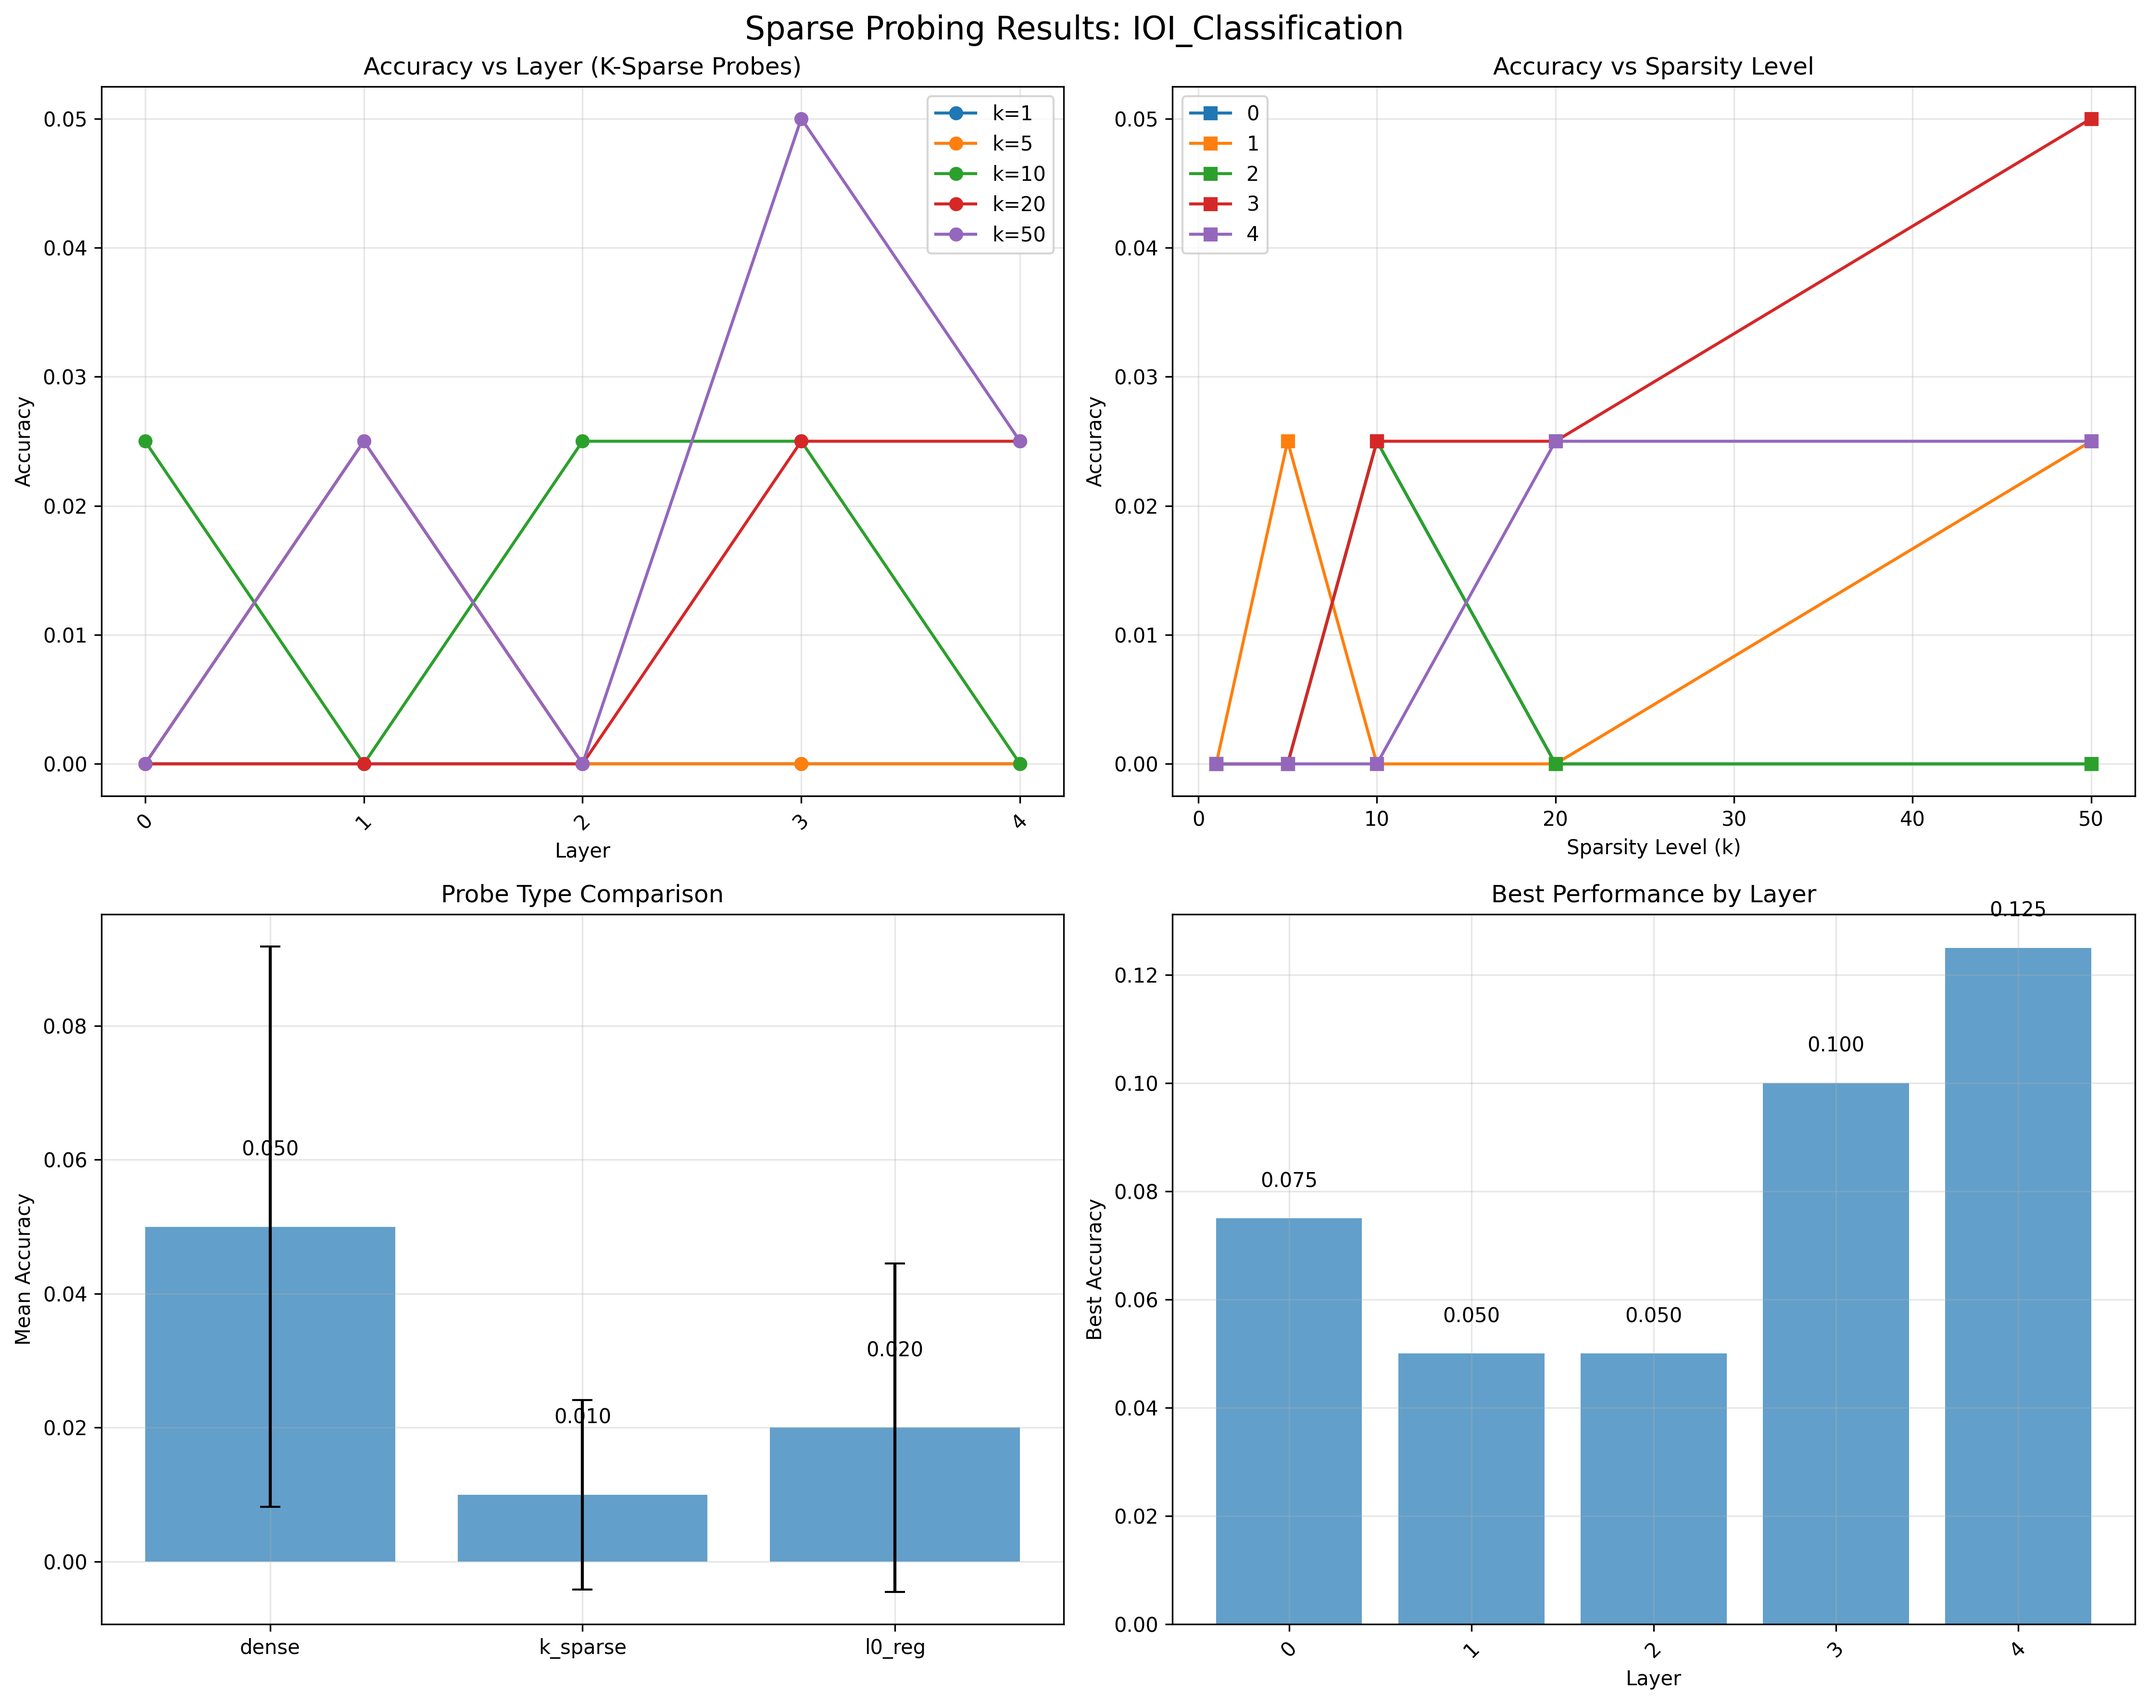
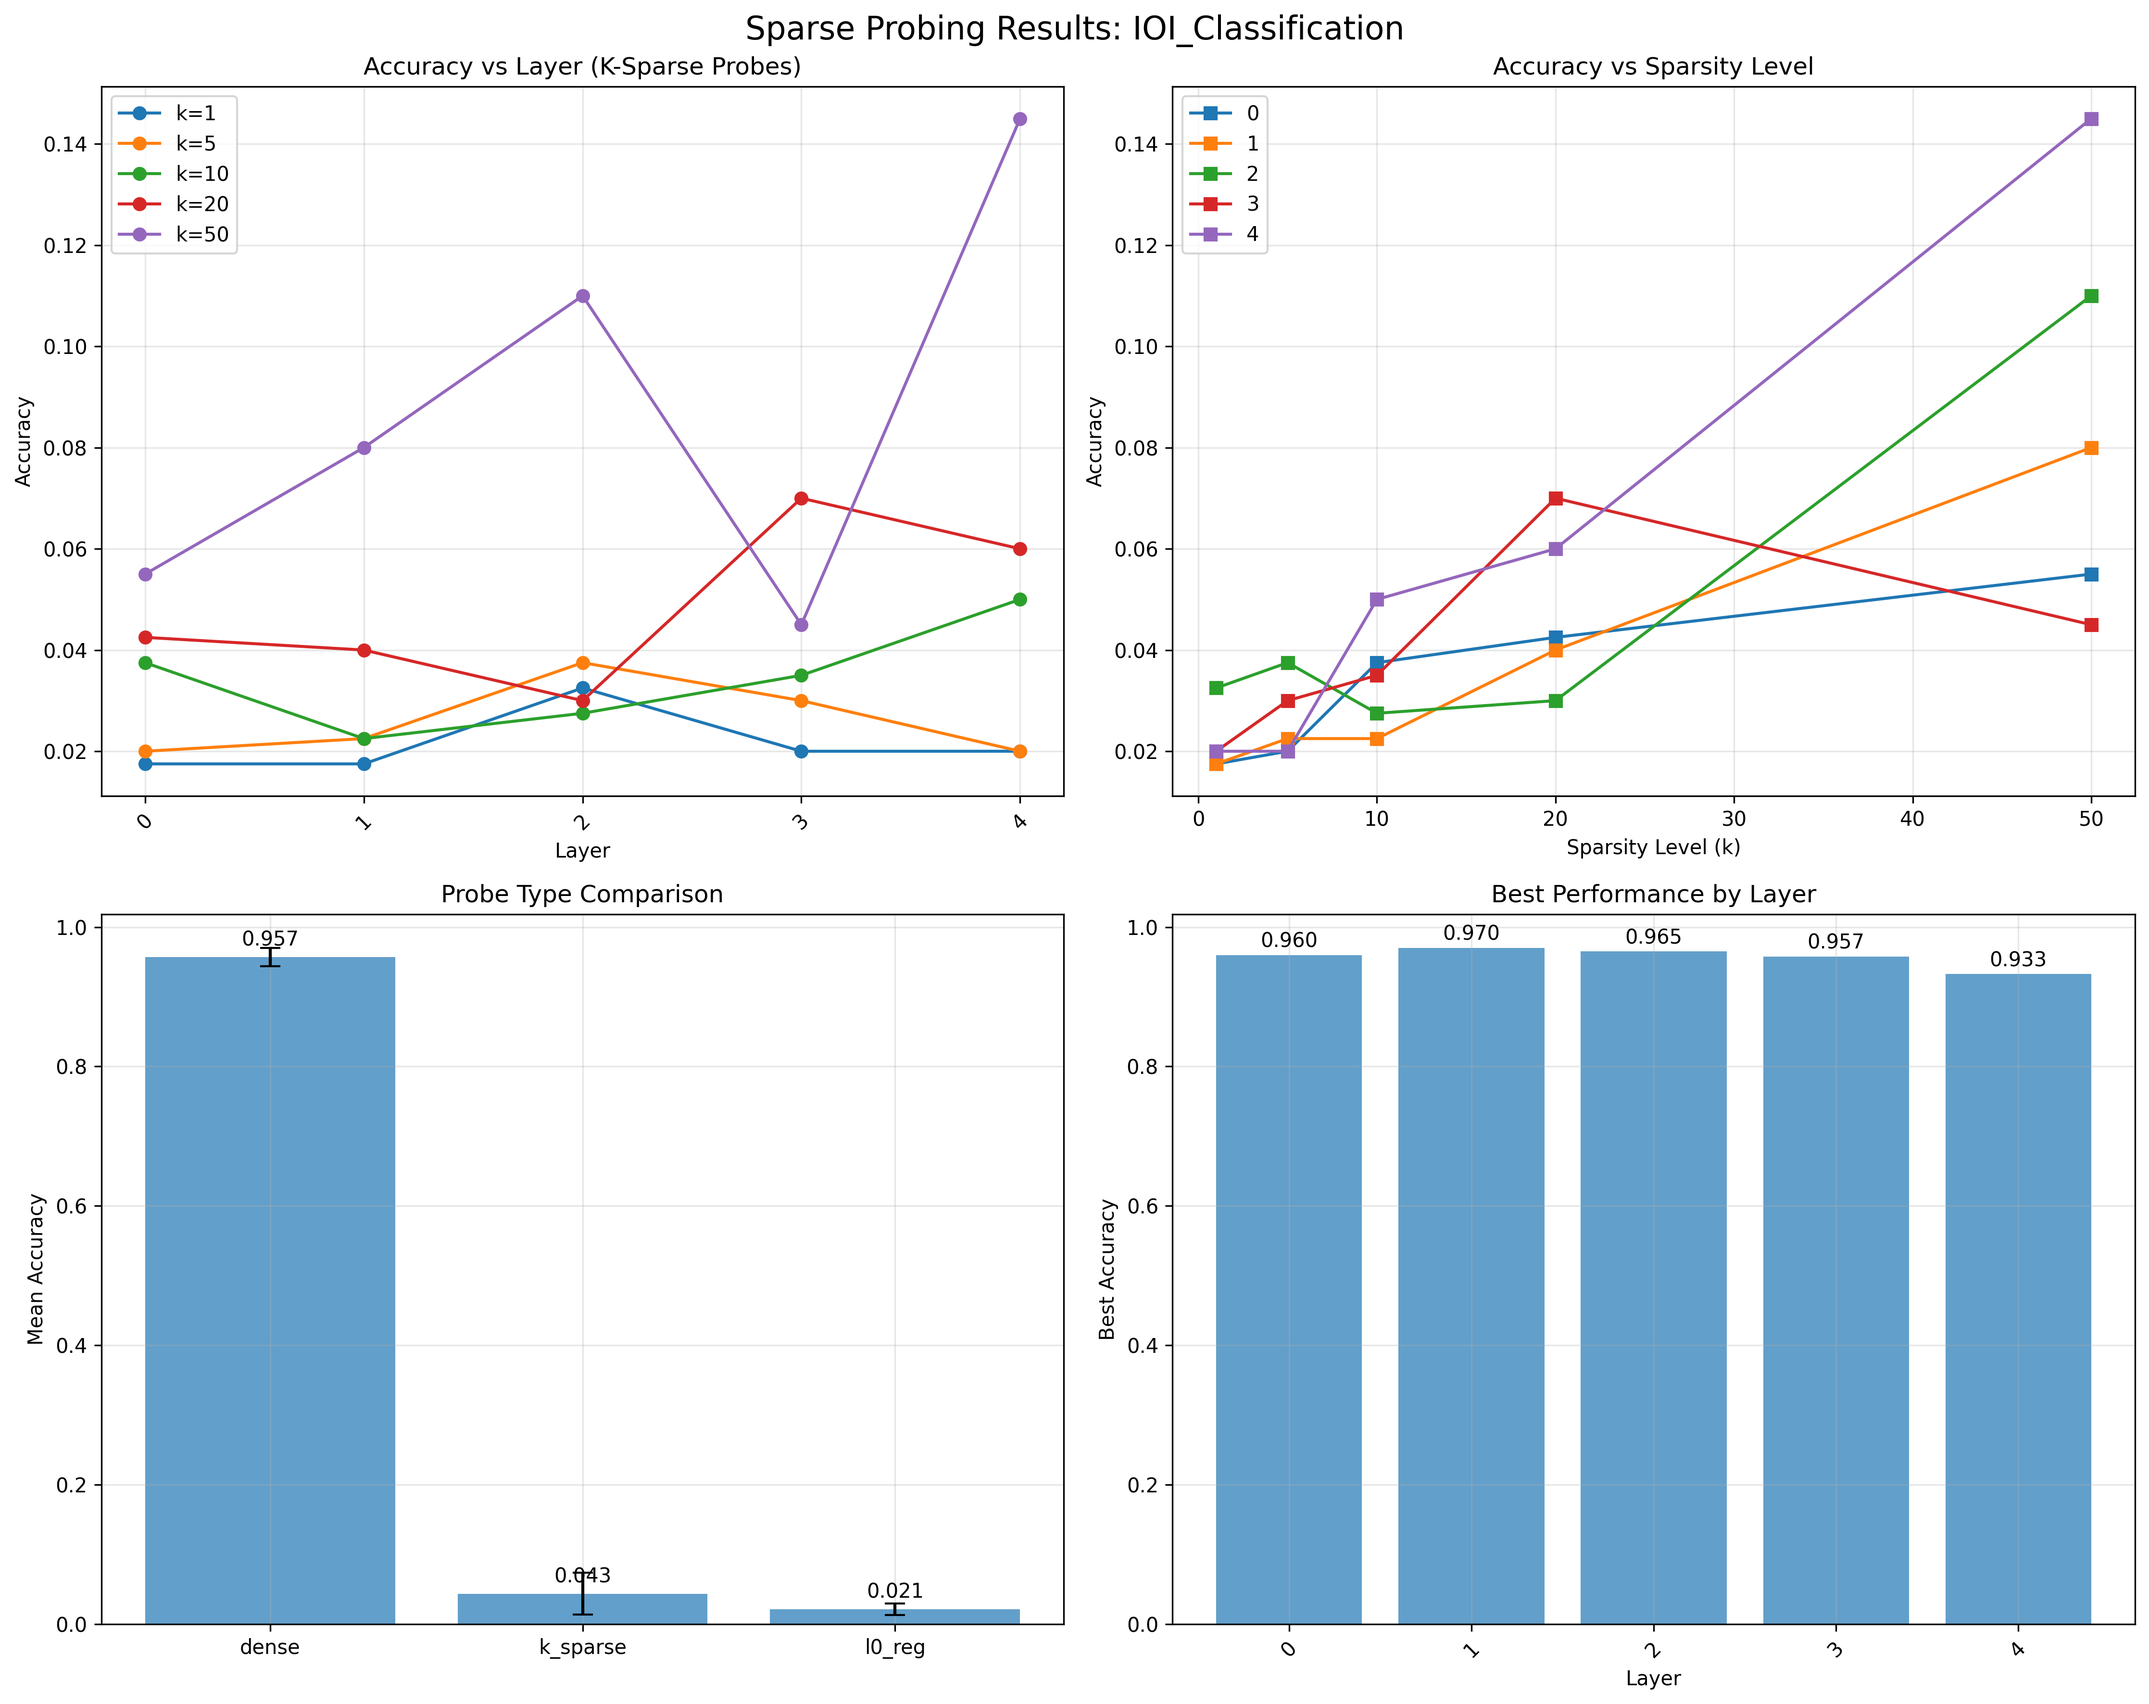
increased the number of examples to train on

diff --git a/run_experiment.py b/run_experiment.py
@@ -24,7 +24,7 @@ def main():
 
     # 3. Get data
     print("Loading and preparing data...")
-    texts, labels = dataset_processor.get_texts_and_labels(split="train", n_examples=200)
+    texts, labels = dataset_processor.get_texts_and_labels(split="train", n_examples=2000)
 
     # 4. Extract activations from the model
     print(f"Extracting activations for layers: {TARGET_LAYERS}...")
